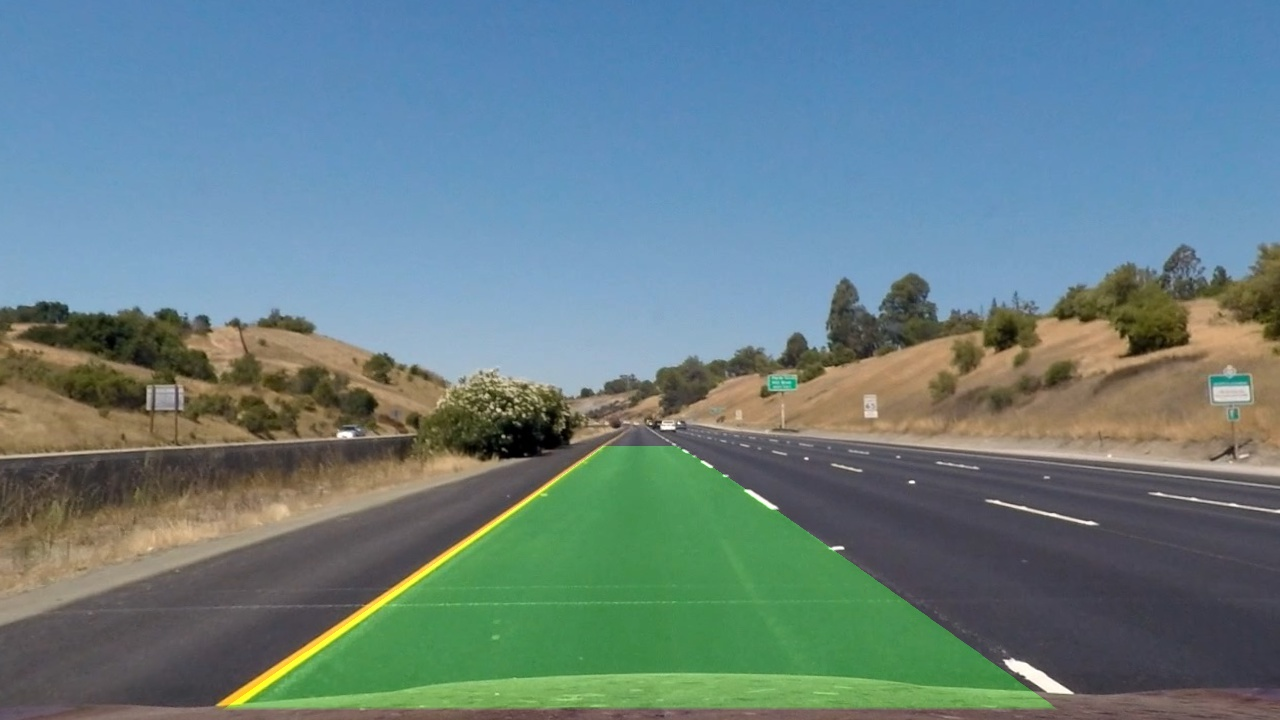
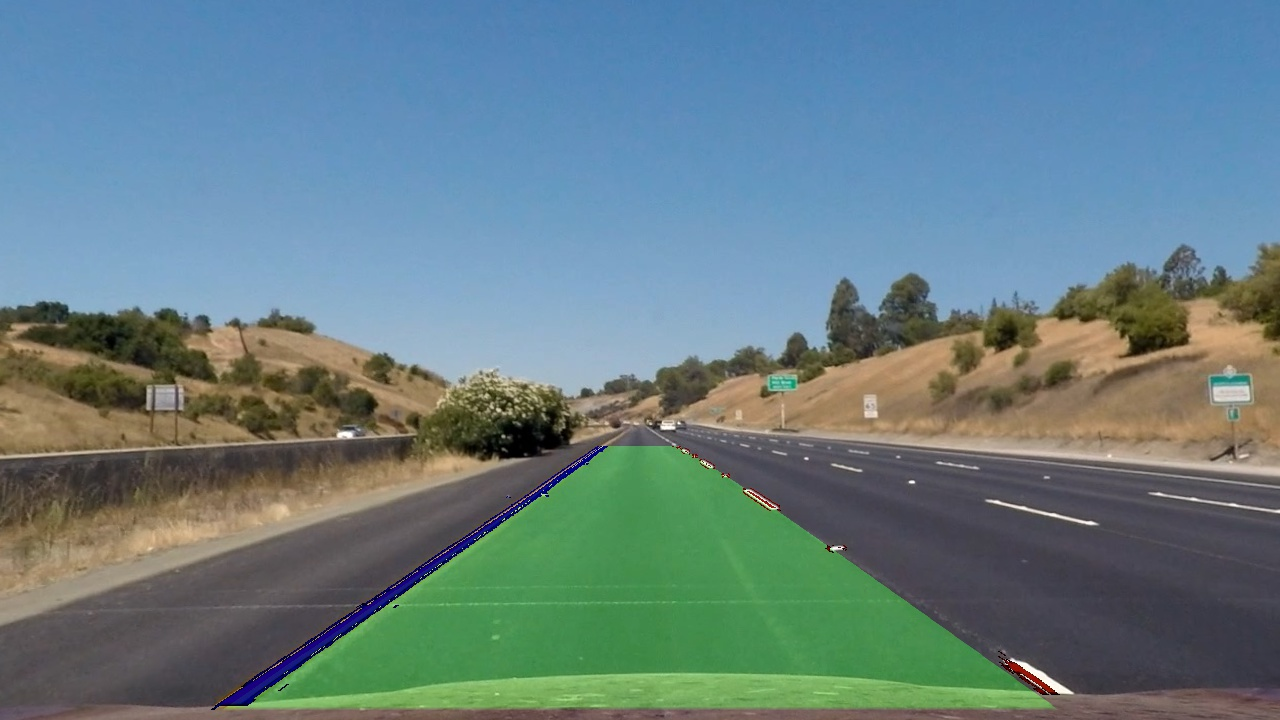
Updated lane drawing method to draw line pixels.

diff --git a/Projects/Advanced Lane Lines/lanelines.py b/Projects/Advanced Lane Lines/lanelines.py
@@ -8,6 +8,8 @@ import matplotlib.pyplot as plt
 n = 10
 # Image shape of all lane lines images.
 img_shape = (1280,720)
+# Whether to save images from cv pipeline
+SAVE_PIPELINE_IMAGES = True
 
 # Define a class to receive the characteristics of each line detection
 class Line():
@@ -22,7 +24,7 @@ class Line():
         self.recent_fits = []
         # polynomial coefficients averaged over the last n iterations
         self.best_fit = None
-        #radius of curvature of the line in some units
+        # radius of curvature of the line in some units
         self.radius_of_curvature = None
         # distance in meters of vehicle center from the line
         self.line_base_pos = None
@@ -66,9 +68,22 @@ class Line():
         self.add_fit_x_vals(fitx)
         self.add_fit(fit)
         self.radius_of_curvature = curverad
+        # TODO: calculate real distance from vehicle center (btw, vehicle center is not image center)
         self.line_base_pos = img_center_x - x[0]
         self.allx = x
         self.ally = y
+
+def plot_two(img1, img2, title1, title2, fontsize=50):
+    plt.clf()
+    f, (ax1, ax2) = plt.subplots(1, 2, figsize=(24, 9))
+    f.tight_layout()
+    img1_rgb = cv2.cvtColor(img1, cv2.COLOR_BGR2RGB)
+    ax1.imshow(img1_rgb)
+    ax1.set_title(title1, fontsize=fontsize)
+    img2_rgb = cv2.cvtColor(img2, cv2.COLOR_BGR2RGB)
+    ax2.imshow(img2_rgb)
+    ax2.set_title(title2, fontsize=fontsize)
+    plt.subplots_adjust(left=0., right=1, top=0.9, bottom=0.)
 
 # Calibrate camera using same image shape for all images.
 def calibrate_camera(img_shape):
@@ -100,8 +115,8 @@ def calibrate_camera(img_shape):
             imgpoints.append(corners)
             objpoints.append(objp)
             # Draw and display corners
-            img = cv2.drawChessboardCorners(img, (nx,ny), corners, ret)
-            #cv2.imwrite("output_images/chessboard-corners-%d.jpg" % i, img)
+            # img = cv2.drawChessboardCorners(img, (nx,ny), corners, ret)
+            # cv2.imwrite("output_images/chessboard-corners-%d.jpg" % i, img)
 
     # Calibrate camera
     cam_ret, cam_mtx, cam_dist, cam_rvecs, cam_tvecs = cv2.calibrateCamera( \
@@ -192,32 +207,32 @@ def hls_thresh(img, channel='s', thresh=(170, 255)):
     return sbinary
 
 def binarize(img_filename, undist, cam_mtx, cam_dist):
-    global transform_M
+    global transform_M, SAVE_PIPELINE_IMAGES
 
     # Sobel kernel size
     ksize = 5
 
     # Apply each of the thresholding functions
     gradx_binary = abs_sobel_thresh(undist, orient='x', sobel_kernel=ksize, thresh=(20, 100))
-    cv2.imwrite("output_images/%s_sobelx.jpg" % img_filename, gradx_binary*255)
+    # cv2.imwrite("output_images/%s_sobelx.jpg" % img_filename, gradx_binary*255)
     grady_binary = abs_sobel_thresh(undist, orient='y', sobel_kernel=ksize, thresh=(20, 100))
-    cv2.imwrite("output_images/%s_sobely.jpg" % img_filename, grady_binary*255)
+    # cv2.imwrite("output_images/%s_sobely.jpg" % img_filename, grady_binary*255)
     mag_binary = mag_thresh(undist, sobel_kernel=ksize, thresh=(30, 100))
-    cv2.imwrite("output_images/%s_mag.jpg" % img_filename, mag_binary*255)
+    # cv2.imwrite("output_images/%s_mag.jpg" % img_filename, mag_binary*255)
     dir_binary = dir_thresh(undist, sobel_kernel=ksize, thresh=(0.8, 1.2))
     # Erode the direction results so that only big globs of nearby white pixels survive.
     erode_kernel = cv2.getStructuringElement(cv2.MORPH_ELLIPSE, (5,5))
     dir_binary = cv2.erode(dir_binary, erode_kernel, iterations=1)
     dir_binary = cv2.dilate(dir_binary, erode_kernel, iterations=2)
-    cv2.imwrite("output_images/%s_dir.jpg" % img_filename, dir_binary*255)
+    # cv2.imwrite("output_images/%s_dir.jpg" % img_filename, dir_binary*255)
     hls_binary = hls_thresh(undist, channel='s', thresh=(170, 255))
-    cv2.imwrite("output_images/%s_hls.jpg" % img_filename, hls_binary*255)
+    # cv2.imwrite("output_images/%s_hls.jpg" % img_filename, hls_binary*255)
 
     # Combine thresholds
     combined = np.zeros_like(mag_binary)
     combined[((gradx_binary == 1) & (grady_binary == 1)) | \
             ((mag_binary == 1) & (dir_binary == 1)) | (hls_binary == 1)] = 1
-    cv2.imwrite("output_images/%s_thresh.jpg" % img_filename, combined*255)
+    # cv2.imwrite("output_images/%s_thresh.jpg" % img_filename, combined*255)
 
     # Mask: exclude pixels outside lanes window.
     mask_top_left = [590, 425]
@@ -234,13 +249,12 @@ def binarize(img_filename, undist, cam_mtx, cam_dist):
     cv2.drawContours(matrix, [poly] , -1, (1), thickness=-1)
     masked = np.zeros_like(combined)
     masked[(combined == 1) & (matrix == 1)] = 1
-    cv2.imwrite("output_images/%s_mask.jpg" % img_filename, masked*255)
+    if SAVE_PIPELINE_IMAGES:
+        cv2.imwrite("output_images/%s_combo_masked.jpg" % img_filename, masked*255)
 
     # Do perspective transform of masked thresholded image.
-    warped = perspective_transform(undist, transform_M)
-    cv2.imwrite("output_images/%s_persp.jpg" % img_filename, warped)
     binary_warped = perspective_transform(masked, transform_M)
-    cv2.imwrite("output_images/%s_persp_thresh.jpg" % img_filename, binary_warped*255)
+    # cv2.imwrite("output_images/%s_persp_thresh.jpg" % img_filename, binary_warped*255)
 
     return binary_warped
 
@@ -317,8 +331,8 @@ def find_lanes_sliding_window(img_filename, binary_warped, left_line, right_line
     left_fitx = left_fit[0]*ploty**2 + left_fit[1]*ploty + left_fit[2]
     right_fitx = right_fit[0]*ploty**2 + right_fit[1]*ploty + right_fit[2]
 
-    out_img[nonzeroy[left_lane_inds], nonzerox[left_lane_inds]] = [255, 0, 0]
-    out_img[nonzeroy[right_lane_inds], nonzerox[right_lane_inds]] = [0, 0, 255]
+    out_img[lefty, leftx] = [255, 0, 0]
+    out_img[righty, rightx] = [0, 0, 255]
     plt.clf()
     plt.imshow(out_img)
     plt.plot(left_fitx, ploty, color='yellow')
@@ -326,16 +340,21 @@ def find_lanes_sliding_window(img_filename, binary_warped, left_line, right_line
     plt.xlim(0, 1280)
     plt.ylim(720, 0)
 
-    plt.savefig("output_images/%s_polylanes_vis.jpg" % img_filename)
+    if SAVE_PIPELINE_IMAGES:
+        plt.savefig("output_images/%s_polylanes_vis.jpg" % img_filename)
 
     # Get radius of curvature in meters.
     left_curverad, right_curverad = meter_curve_radius(left_fit, right_fit, ploty, left_fitx, right_fitx)
 
     # Update lines definitions.
+    print ('x')
+    print (leftx)
+    print ('y')
+    print (lefty)
     left_line.update(left_fit, left_fitx, left_curverad, leftx, lefty)
     right_line.update(right_fit, right_fitx, right_curverad, rightx, righty)
 
-    return left_fitx, right_fitx, ploty
+    return ploty
 
 def find_lanes_limited_search(img_filename, binary_warped, left_fit, right_fit):
     # Assume you now have a new warped binary image 
@@ -357,7 +376,7 @@ def find_lanes_limited_search(img_filename, binary_warped, left_fit, right_fit):
     left_fit = np.polyfit(lefty, leftx, 2)
     right_fit = np.polyfit(righty, rightx, 2)
     # Generate x and y values for plotting
-    ploty = np.linspace(0, binary_warped.shape[0]-1, binary_warped.shape[0] )
+    ploty = np.linspace(0, binary_warped.shape[0]-1, binary_warped.shape[0])
     left_fitx = left_fit[0]*ploty**2 + left_fit[1]*ploty + left_fit[2]
     right_fitx = right_fit[0]*ploty**2 + right_fit[1]*ploty + right_fit[2]
 
@@ -365,8 +384,8 @@ def find_lanes_limited_search(img_filename, binary_warped, left_fit, right_fit):
     out_img = np.dstack((binary_warped, binary_warped, binary_warped))*255
     window_img = np.zeros_like(out_img)
     # Color in left and right line pixels
-    out_img[nonzeroy[left_lane_inds], nonzerox[left_lane_inds]] = [255, 0, 0]
-    out_img[nonzeroy[right_lane_inds], nonzerox[right_lane_inds]] = [0, 0, 255]
+    out_img[lefty, leftx] = [255, 0, 0]
+    out_img[righty, rightx] = [0, 0, 255]
 
     # Visualize: Generate a polygon to illustrate the search window area
     # And recast the x and y points into usable format for cv2.fillPoly()
@@ -388,7 +407,8 @@ def find_lanes_limited_search(img_filename, binary_warped, left_fit, right_fit):
     plt.xlim(0, 1280)
     plt.ylim(720, 0)
 
-    plt.savefig("output_images/%s_polylanes_vis_lim.jpg" % img_filename)
+    if SAVE_PIPELINE_IMAGES:
+        plt.savefig("output_images/%s_polylanes_vis_lim.jpg" % img_filename)
 
     # Get radius of curvature in meters.
     left_curverad, right_curverad = meter_curve_radius(left_fit, right_fit, ploty, left_fitx, right_fitx)
@@ -397,7 +417,7 @@ def find_lanes_limited_search(img_filename, binary_warped, left_fit, right_fit):
     left_line.update(left_fit, left_fitx, left_curverad, leftx, lefty)
     right_line.update(right_fit, right_fitx, right_curverad, rightx, righty)
 
-    return left_fitx, right_fitx, ploty
+    return ploty
 
 def pixel_curve_radius(left_fit, right_fit, ploty):
     # Define y-value where we want radius of curvature
@@ -422,33 +442,53 @@ def meter_curve_radius(left_fit, right_fit, ploty, leftx, rightx):
     # Now our radius of curvature is in meters
     return left_curverad, right_curverad
 
-def draw_lane(img_filename, undist, binary_warped, left_fitx, right_fitx, ploty):
+def draw_lane(img_filename, undist, binary_warped, left_line, right_line, ploty):
     global inverse_M
 
     # Create an image to draw the lines on
     warp_zero = np.zeros_like(binary_warped).astype(np.uint8)
-    color_warp = np.dstack((warp_zero, warp_zero, warp_zero))
+    color_lane_warp = np.dstack((warp_zero, warp_zero, warp_zero))
+    color_lines_warp = color_lane_warp.copy()
 
     # Recast the x and y points into usable format for cv2.fillPoly()
-    pts_left = np.array([np.transpose(np.vstack([left_fitx, ploty]))])
-    pts_right = np.array([np.flipud(np.transpose(np.vstack([right_fitx, ploty])))])
+    pts_left = np.array([np.transpose(np.vstack([left_line.bestx, ploty]))])
+    pts_right = np.array([np.flipud(np.transpose(np.vstack([right_line.bestx, ploty])))])
     pts = np.hstack((pts_left, pts_right))
 
     # Draw the lane onto the warped blank image
-    cv2.fillPoly(color_warp, np.int_([pts]), (0, 255, 0))
+    cv2.fillPoly(color_lane_warp, np.int_([pts]), (0, 255, 0))
+    
+    # Color in left and right line pixels
+    color_lines_warp[left_line.ally, left_line.allx] = [255, 0, 0]
+    color_lines_warp[right_line.ally, right_line.allx] = [0, 0, 255]
 
     # Warp the blank back to original image space using inverse perspective matrix
-    newwarp = perspective_transform(color_warp, inverse_M)
+    lane_unwarp = perspective_transform(color_lane_warp, inverse_M)
+    lines_unwarp = perspective_transform(color_lines_warp, inverse_M)
+    binary_lines = lines_unwarp.copy()
+    nonzero = np.nonzero(binary_lines.any(axis=-1))
+    binary_lines[nonzero] = [255, 255, 255]
     # Combine the result with the original image
-    result = cv2.addWeighted(undist, 1, newwarp, 0.3, 0)
+    lane = cv2.addWeighted(undist, 1, lane_unwarp, 0.3, 0)
+    dampened = cv2.addWeighted(lane, 1, binary_lines, -0.9, 0)
+    result = cv2.addWeighted(dampened, 1, lines_unwarp, 0.5, 0)
+
     cv2.imwrite("output_images/%s_lane_drawn.jpg" % img_filename, result)
 
-img_filename = "test1"
+    return result
+
+img_filename = "straight_lines1"
 
 # Get camera matrix and distortion coefficients.
 cam_mtx, cam_dist = calibrate_camera(img_shape)
 
-# Predefine src and dst points (after distortion) for 
+if SAVE_PIPELINE_IMAGES:
+    image = cv2.imread("camera_cal/calibration1.jpg")
+    undist = undistort(image, cam_mtx, cam_dist)
+    plot_two(image, undist, "Original image", "Undistorted image")
+    plt.savefig("output_images/undistort_chessboard.jpg")
+
+# Predefine src and dst points (after undistortion) for 
 # perspective transform of each lane lines image.
 top_left = [632, 425]
 top_right = [648, 425]
@@ -473,14 +513,27 @@ right_line = Line()
 # Read image from file, and undistort.
 image = cv2.imread("test_images/%s.jpg" % img_filename)
 undist = undistort(image, cam_mtx, cam_dist)
-cv2.imwrite("output_images/%s_undistort.jpg" % img_filename, undist)
+
+if SAVE_PIPELINE_IMAGES:
+    undist_copy = undist.copy()
+    src_pts = undist_src.astype(np.int32).reshape((-1,1,2))
+    cv2.polylines(undist_copy, [src_pts], True, (255,0,0), 5)
+    warped = perspective_transform(undist, transform_M)
+    dst_pts = undist_dst.astype(np.int32).reshape((-1,1,2))
+    cv2.polylines(warped, [dst_pts], True, (255,0,0), 5)
+    plot_two(undist_copy, warped, \
+        "Undistorted image with src points drawn", \
+        "Warped result with dest. points drawn", 30)
+    plt.savefig("output_images/%s_warped.jpg" % img_filename)
+    cv2.imwrite("output_images/%s_undist.jpg" % img_filename, undist)
+
 # Get binary image of undistorted and unwarped lanes after threhsolding.
 binary_warped = binarize(img_filename, undist, cam_mtx, cam_dist)
 
 # Find the lane lines and populate Line member vars.
-left_fitx, right_fitx, ploty = find_lanes_sliding_window(img_filename, \
+ploty = find_lanes_sliding_window(img_filename, \
     binary_warped, left_line, right_line)
 
 # Draw the lane back onto the original image.
-draw_lane(img_filename, undist, binary_warped, left_fitx, right_fitx, ploty)
+draw_lane(img_filename, undist, binary_warped, left_line, right_line, ploty)
 
